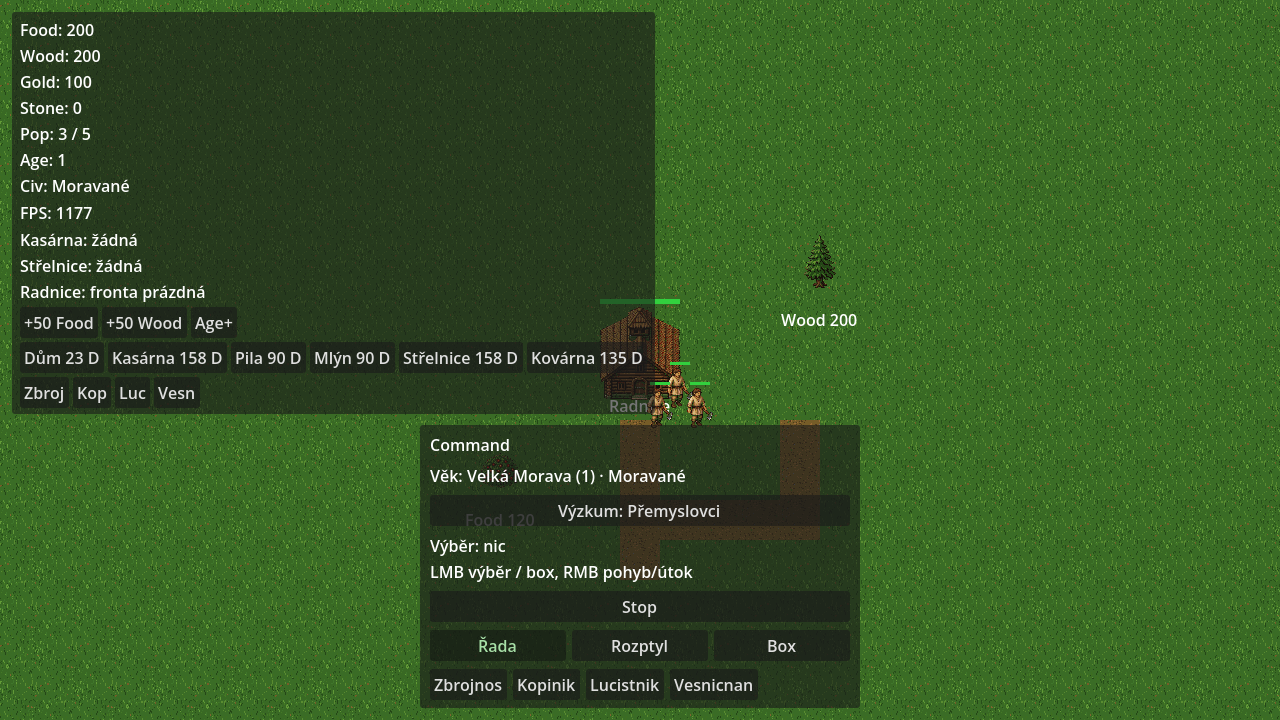
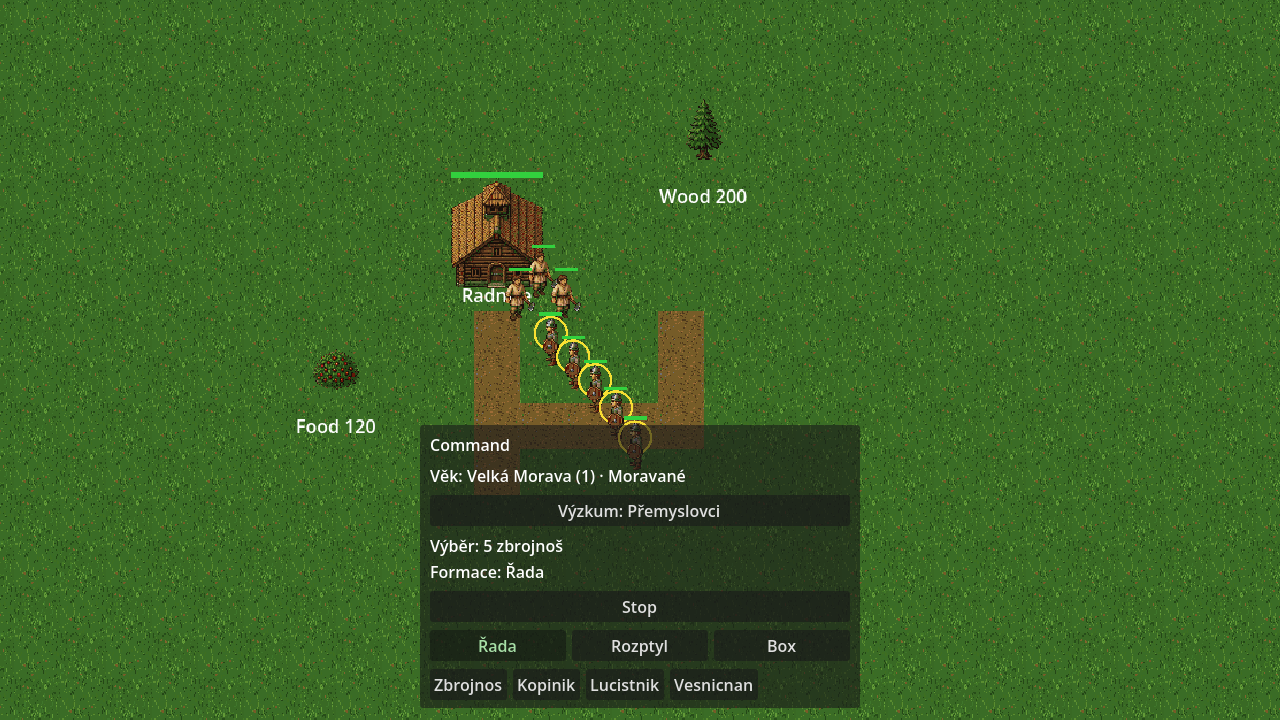
PR #14 review: civ id test, Box naming, formation shot
Iterate all CivData.CIVS in headless test; DESIGN Box without klín;
screenshot shows 5 soldiers in line with DebugPanel hidden.

diff --git a/docs/DESIGN.md b/docs/DESIGN.md
@@ -66,7 +66,7 @@ Skupinový pohyb (2+ jednotky): formace kolem cíle RMB; celá skupina jde rychl
 |---------|------------------|
 | Řada (`line`) | 36 px |
 | Rozptyl (`scattered`) | 56 px |
-| Box (`box`, klín/box) | 40 px |
+| Box (`box`) | 40 px |
 
 ## Core loop
 Resources → Stavění → Produkce jednotek → Combat → Postup věků
